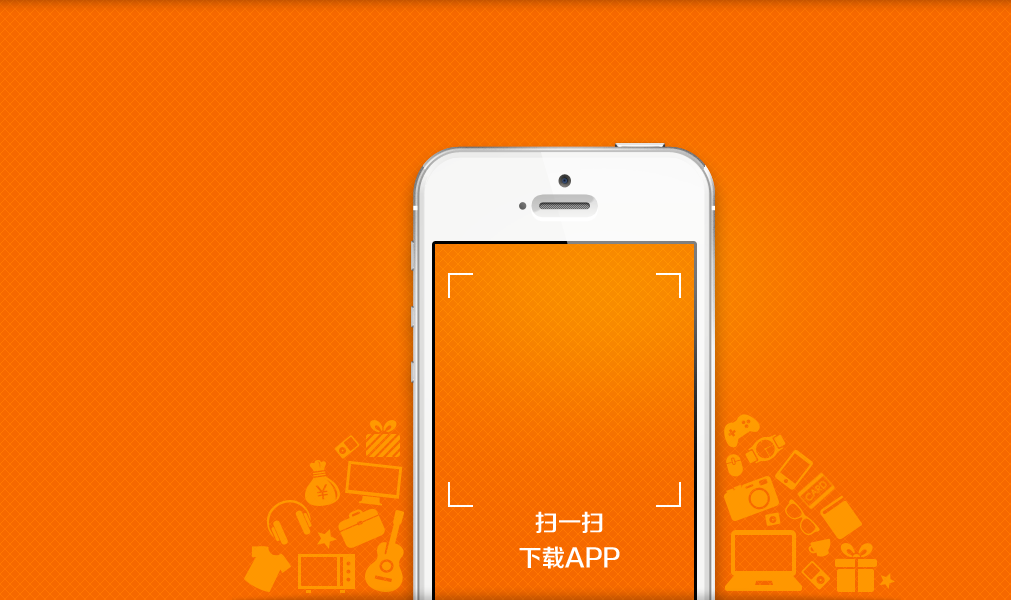
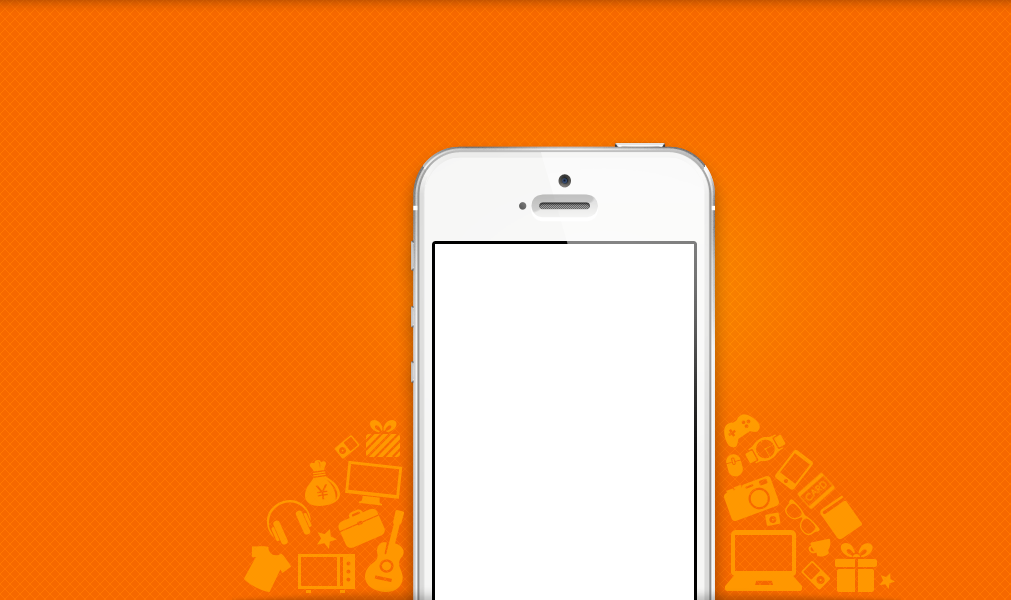
1

Changed region(s): [[0.4293, 0.39, 0.7052, 1.0]]

diff --git a/demo/pie/index.html b/demo/pie/index.html
@@ -29,21 +29,20 @@
              <div id="index_menu">
                  <div class="index-menu-title"></div>
                  <ul class="index_menu_items list-unstyled">
-                     <li><a href="" class="menu-checkin"><i></i><strong>签到送礼</strong><span>签到得奖，完全免费</span></a></li>
-                     <li><a href="" class="menu-digg"><i></i><strong>疯狂旷工</strong><span>挖金币，买商品</span></a></li>
-                     <li><a href="" class="menu-buy"><i></i><strong>竞拍、竞买</strong><span>商品低价，保障权益</span></a></li>
+                     <li class="J_hoverItem" data-index="1"><a href="javascript:;" class="menu-checkin"><i></i><strong>签到送礼</strong><span>签到得奖，完全免费</span></a></li>
+                     <li class="J_hoverItem"  data-index="2"><a href="javascript:;" class="menu-digg"><i></i><strong>疯狂旷工</strong><span>挖金币，买商品</span></a></li>
+                     <li class="J_hoverItem"  data-index="3"><a href="javascript:;" class="menu-buy"><i></i><strong>竞拍、竞买</strong><span>商品低价，保障权益</span></a></li>
                  </ul>
-                 <div class="down-loadlink ">
+                 <div class="down-loadlink J_hoverItem"  data-index="4">
                      <a href="javascript:;" class="ios"></a>
                  </div>
-                 <div class="down-loadlink ">
+                 <div class="down-loadlink J_hoverItem"  data-index="5">
                      <a href="javascript:;" class="apk"></a>
                  </div>
              </div>
              <div id="index_container">
                    <div id="download_card">
-                        <img id="J_iosCard" src="card/ios_card.jpg">
-                       <img id="J_apkCard" style="display: none;" src="card/apk_card.png" >
+                        <img id="J_showImg" src="card/1.jpg">
                    </div>
              </div>
          </div>
@@ -59,23 +58,55 @@
 
 <script>
     $(document).ready(function(){
-        $(".down-loadlink a").hover(function(){
+        var interPick ;
+        var i=0;
+        var interCircle = function(){
+           var hoverItems =  $("#index_menu  .J_hoverItem");
+
+            interPick = setInterval(function(){
+                if(i>=5){
+                    i=0;
+                }
+                $('.J_hoverItem').removeClass("current");
+                $(hoverItems[i]).addClass("current");
+
+                var curIndex =  $(hoverItems[i]).data("index");
+                $("#J_showImg")[0].src="card/"+curIndex+".jpg";
+                $("#J_showImg").fadeIn();
+
+                i++;
+
+
+            },2000);
+        }
+
+        interCircle();
+
+        $("#index_menu  .J_hoverItem").hover(function(){
             var curDom = $(this);
-            if(curDom.hasClass("ios")&&$("#J_iosCard").css("display")=="none"){
-                $("#J_apkCard").fadeOut(function(){
-                    $("#J_iosCard").fadeIn();
-                });
-
-            }else if(curDom.hasClass("apk")&&$("#J_apkCard").css("display")=="none"){
-                $("#J_iosCard").fadeOut(function(){
-                    $("#J_apkCard").fadeIn();
-                });
-
+            if(interPick){
+                clearInterval(interPick);
             }
-        })
+            $('.J_hoverItem').removeClass("current");
+            var curIndex = curDom.data("index");
+
+                $("#J_showImg")[0].src="card/"+curIndex+".jpg";
+                $("#J_showImg").fadeIn();
+
+
+        },function(){
+            i=0;
+            interCircle();
+        });
+
     });
 </script>
-
-
+<div style="display: none;">
+<img src="card/1.jpg">
+<img src="card/2.jpg">
+<img src="card/3.jpg">
+<img src="card/4.jpg">
+<img src="card/5.jpg">
+</div>
 </body>
 </html>

diff --git a/demo/pie/app/index.html b/demo/pie/app/index.html
@@ -1,0 +1,150 @@
+<!DOCTYPE html>
+<html>
+<head>
+    <meta http-equiv="Content-Type" content="text/html; charset=UTF-8"/>
+    <meta content="width=device-width, initial-scale=1.0, maximum-scale=1.0, minimum-scale=1.0, user-scalable=0;"
+          name="viewport"/>
+
+    <title></title>
+    <style>
+        *{
+         margin:0;padding:0;   
+        }
+        body{
+            background:#fff;
+            padding:10px 30px;
+        }
+        #bar {
+            height:101px;
+            background: url(img/bg.png) left top repeat-x;
+            border-radius: 10px; -webkit-border-radius: 10px;
+            position: relative;
+            padding:0 118px;
+        }
+
+        #bar .left {
+            position: absolute;top:0px;
+            left:0;height:81px;
+            width:118px;border-right:1px solid #fff;
+            text-align: center;
+            line-height: 30px;padding-top:20px;
+            color: #fff;font-size: 20px;
+        }
+        #bar .right {
+            position: absolute;top:0px;
+            right:0;height:81px;
+            width:118px;border-left:1px solid #fff;
+            text-align: center;
+            line-height: 30px;padding-top:20px;
+            color: #fff;font-size: 20px;
+        }
+
+        .mid{
+            position: relative;
+        }
+        .averange {
+            position: absolute;
+            left: 0px;
+            top: 45px;
+            height: 12px;
+            line-height: 12px;
+
+            width: 100%;
+
+            color: #ff8124;
+        }
+        .averange .dot {
+
+            font-size: 12px;
+            width: 12px;
+            height: 12px;
+
+            left: -1px;
+            position: absolute;
+            line-height: 12px;
+        }
+        .averange div.line {
+            height:3px;margin:4px 0; background: #ff8124; overflow: hidden;
+            width:75%;
+        }
+
+        .high ,.low{
+            position: absolute;
+            right: 0;
+
+            height: 12px;
+            line-height: 12px;
+
+            width: 100%;
+
+        }
+        .high  {
+            top: 20px;
+            color: #a5ff63;
+        }
+        .low  {
+            top: 70px;
+            color: #ff4b4b;
+        }
+
+        .high .dot , .low .dot {
+
+            font-size: 12px;
+            width: 12px;
+            height: 12px;
+            position: absolute;
+            right: 0;
+            line-height: 12px;
+            z-index: 99;
+        }
+
+        .high div.line,.low div.line  {
+            height: 3px;
+            margin: 4px 0;
+
+            overflow: hidden;
+            width: 75%;
+            position: absolute;
+            right: 0px;
+        }
+        .high div.line{
+            background: #a5ff63;
+        }
+        .low div.line {
+            background: #ff4b4b;
+        }
+
+
+
+    </style>
+</head>
+<body>
+<div id="bar">
+    <div class="left">
+        现平均价<br>
+        <span style="margin-left:-8px;">￥120</span>
+
+    </div>
+    <div class="mid">
+        <div class="averange">
+
+            <div class="line"></div>
+        </div>
+        <div class="high">
+
+            <div class="line"></div>
+        </div>
+        <div class="low">
+
+            <div class="line"></div>
+        </div>
+    </div>
+    <div class="right">
+        我的出价<br>
+        <span style="margin-left:-8px;">￥120</span>
+    </div>
+</div>
+
+
+</body>
+</html>

diff --git a/demo/pie/css/style.css b/demo/pie/css/style.css
@@ -32,7 +32,8 @@
     font-weight: bold;
 }
 #header_menu span.word2 { width:81px;}
-#header_menu a:hover span.word2 , #header_menu a.current span.word2 {
+#header_menu a:hover span.word2 {color:#dc5a0b;}
+#header_menu a.current span.word2 {
     background: url(img/menu_item_bg_2.png) left top no-repeat;
     width:81px;
     color:#fff;
@@ -80,7 +81,7 @@
     position: absolute;top:126px;  left:255px;
 
     width:660px; height:475px;
-    /*background:url(img/banner.png) left top no-repeat;*/
+
     z-index: 555;
 }
 .index-menu-title{
@@ -104,7 +105,7 @@
     height:65px;
     padding-left:78px;
 }
-#index_menu li a:hover {
+#index_menu li a:hover,#index_menu li.current a  {
     background: url(img/index_bg_hover.png) left top no-repeat;
 }
 
@@ -160,8 +161,8 @@
 
 #download_card {
     position: absolute;
-    left: 215px;
-    top: 170px;
+    left: 180px;
+    top: 118px;
     height:190px;width:190px;
 }
 

diff --git a/try/charts/chart3.html b/try/charts/chart3.html
@@ -11,7 +11,7 @@
 <script src="dev/timedata.js"></script>
 
 
-<div id="container" style="height: 540px; min-width: 500px"></div>
+<div id="container" style="height: 440px; min-width: 500px"></div>
  <script>
      $(function () {
 
@@ -62,7 +62,7 @@
 
                      top:280,
                    offset:0,
-                     height: 200,
+                     height: 100,
 
                      lineWidth: 2
                  }
@@ -104,7 +104,7 @@
              }, {
                  yAxis:1,
                  name: 'London',
-                 type:"area",
+                 type:"line",
                  data: [48.9, 38.8, 39.3, 41.4, 47.0, 48.3, 59.0, 59.6, 52.4, 65.2, 59.3, 51.2]
 
 
